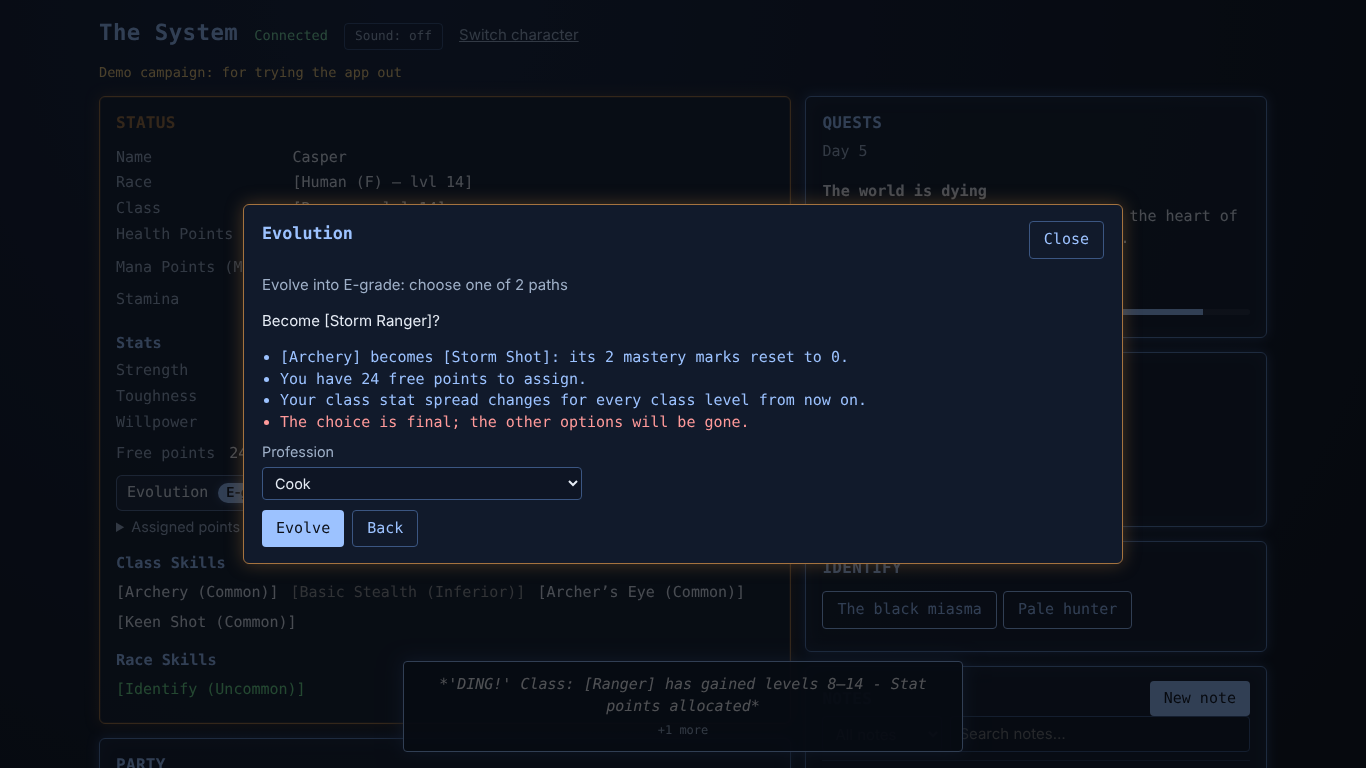
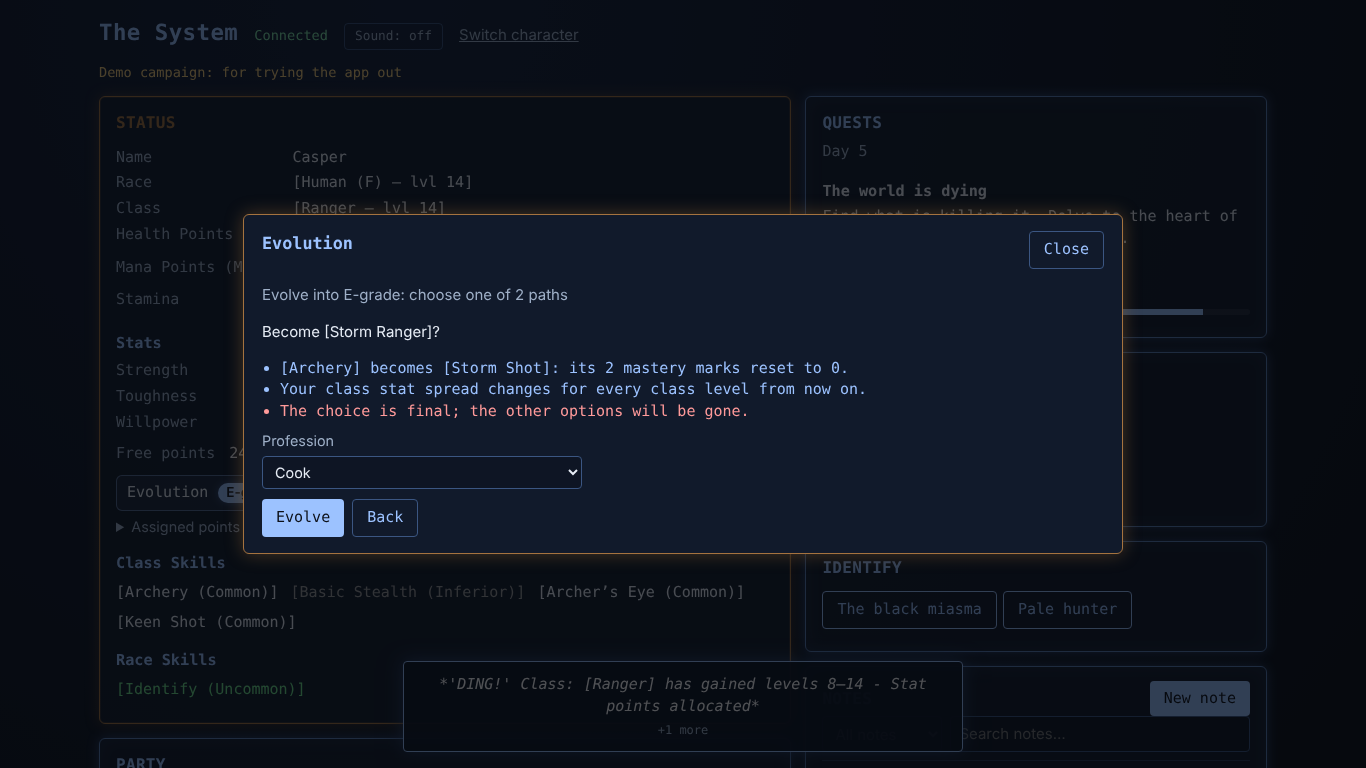
fix(M3.13): address review (focus returns to [Evolve] and the picked path, a replaced or settled release closes with a notice, no free-points warning)
Claude-Session: https://claude.ai/code/session_01MhNGrAnDKjPeUgHjoEJsKP

diff --git a/e2e/M3.13.spec.ts b/e2e/M3.13.spec.ts
@@ -140,7 +140,6 @@ test('a player chooses a released evolution with a profession', async ({ browser
   await expect(warnings).toContainText(
     new RegExp(`\\[${skill}\\] becomes \\[Storm Shot\\]: its \\d+ mastery marks? resets? to 0\\.`),
   );
-  await expect(warnings).toContainText('free points to assign');
   await expect(warnings).toContainText('Your class stat spread changes');
   await expect(warnings).toContainText('The choice is final');
   await dialog.getByLabel('Profession').selectOption('Cook');
@@ -148,6 +147,7 @@ test('a player chooses a released evolution with a profession', async ({ browser
   await dialog.getByRole('button', { name: 'Evolve' }).click();
   await expect(dialog).toHaveCount(0);
   await expect(pending).toHaveCount(0);
+  await expect(laptop.getByTestId('evolution-notice')).toHaveCount(0);
   await expect(laptop.getByTestId('class')).toHaveText(/^\[Storm Ranger – lvl \d+\]$/);
   await expect(laptop.getByTestId('race')).toContainText('(E)');
   await expect(laptop.getByTestId('profession')).toHaveText(/^\[Cook – lvl \d+\]$/);
@@ -199,10 +199,42 @@ test('a player chooses a released evolution with a profession', async ({ browser
   await expect(phoneDialog.getByTestId('evolution-option')).toHaveCount(3);
   await expect(phoneDialog.getByLabel('Profession')).toHaveCount(0);
   await phone.screenshot({ path: path.join(shots, 'player-evolution-390x844.png') });
-  // The GM withdraws it by choosing for the player: the dialog closes.
+  // The GM re-releases while the dialog is open: it closes with a notice.
+  await gmCommand(gm, {
+    type: 'evolution.release',
+    characterId: 'demo-sultan',
+    options: [
+      {
+        className: 'Skirmisher',
+        transforms: [{ skill: sultanSkill, name: 'Snap Shot', rarity: 'common' }],
+      },
+      {
+        className: 'Warden',
+        transforms: [{ skill: sultanSkill, name: 'Guard Shot', rarity: 'common' }],
+      },
+    ],
+  });
+  await expect(phoneDialog).toHaveCount(0);
+  await expect(phone.getByTestId('evolution-notice')).toHaveText(
+    'The GM changed your evolution; open it again to see the new paths.',
+  );
+  // Keyboard: Back returns focus to the picked path; Close returns it to [Evolve].
+  const evolve = phone.getByTestId('evolution-pending').getByRole('button', { name: '[Evolve]' });
+  await evolve.click();
+  await phoneDialog.getByRole('button', { name: 'Choose Warden' }).click();
+  await phone.screenshot({ path: path.join(shots, 'player-evolution-review-390x844.png') });
+  await phoneDialog.getByRole('button', { name: 'Back' }).click();
+  await expect(phoneDialog.getByRole('button', { name: 'Choose Warden' })).toBeFocused();
+  await phoneDialog.getByRole('button', { name: 'Close evolution' }).click();
+  await expect(evolve).toBeFocused();
+  await evolve.click();
+  // The GM chooses for the player while the dialog is open: it closes with a notice.
   await gmCommand(gm, { type: 'evolution.choose', characterId: 'demo-sultan', optionId: 'o2' });
   await expect(phoneDialog).toHaveCount(0);
-  await expect(phone.getByTestId('class')).toHaveText(/^\[Skirmisher – lvl \d+\]$/);
+  await expect(phone.getByTestId('evolution-notice')).toHaveText(
+    'Your evolution was settled or withdrawn by the GM.',
+  );
+  await expect(phone.getByTestId('class')).toHaveText(/^\[Warden – lvl \d+\]$/);
 
   expect(errors).toEqual([]);
   expect(jakeErrors).toEqual([]);

diff --git a/apps/web/src/player/PlayerScreen.tsx b/apps/web/src/player/PlayerScreen.tsx
@@ -223,9 +223,28 @@ function Status({ view, client }: { view: PlayerView; client: LiveClient | null 
   // never swaps it: if the GM re-offers, chooses or undoes it, it closes with
   // a notice (unless this screen's own choice closed it).
   const pending = pendingSelections(me.selections);
-  const [evoOpen, setEvoOpen] = useState(false);
-  // A withdrawn or settled release closes the dialog; a new one waits for [Evolve].
-  if (evoOpen && me.evolution === null) setEvoOpen(false);
+  // The evolution dialog (M3.13) is open on one release; a settled, withdrawn
+  // or replaced release closes it with a notice (unless this screen chose).
+  const [evoOpen, setEvoOpen] = useState<string | null>(null);
+  const [evoConfirming, setEvoConfirming] = useState(false);
+  const [evoNotice, setEvoNotice] = useState<string | null>(null);
+  const [evoFocus, setEvoFocus] = useState(0);
+  const evolveButton = useRef<HTMLButtonElement | null>(null);
+  if (evoOpen !== null && me.evolution?.releaseId !== evoOpen) {
+    setEvoOpen(null);
+    if (!evoConfirming)
+      setEvoNotice(
+        me.evolution === null
+          ? 'Your evolution was settled or withdrawn by the GM.'
+          : 'The GM changed your evolution; open it again to see the new paths.',
+      );
+    setEvoConfirming(false);
+    setEvoFocus((n) => n + 1);
+  }
+  useEffect(() => {
+    if (evoFocus === 0) return;
+    (evolveButton.current ?? statusHeading.current)?.focus();
+  }, [evoFocus]);
   const [selOpen, setSelOpen] = useState<{ level: number; offerId: string } | null>(null);
   const [selConfirming, setSelConfirming] = useState<number | null>(null);
   const [selNotice, setSelNotice] = useState<string | null>(null);
@@ -406,28 +425,45 @@ function Status({ view, client }: { view: PlayerView; client: LiveClient | null 
           <span className="badge" data-testid="evolution-badge">
             {me.evolution.toGrade}-grade available
           </span>
-          {client && !evoOpen && (
+          {client && (
             <button
               type="button"
               className="assign-btn"
+              ref={evolveButton}
               aria-haspopup="dialog"
-              onClick={() => setEvoOpen(true)}
+              onClick={() => {
+                setEvoNotice(null);
+                setEvoOpen(me.evolution?.releaseId ?? null);
+              }}
             >
               [Evolve]
             </button>
           )}
         </p>
       )}
-      {client && me.evolution !== null && evoOpen && (
+      {evoNotice && (
+        <p className="err" role="alert" data-testid="evolution-notice">
+          {evoNotice}
+        </p>
+      )}
+      {client && me.evolution !== null && evoOpen === me.evolution.releaseId && (
         <EvolutionChoice
           key={me.evolution.releaseId}
           evolution={me.evolution}
           view={view}
           client={client}
+          onConfirming={() => setEvoConfirming(true)}
           onSettled={(ok) => {
-            if (ok) setEvoOpen(false);
+            setEvoConfirming(false);
+            if (ok) {
+              setEvoOpen(null);
+              setEvoFocus((n) => n + 1);
+            }
           }}
-          onClose={() => setEvoOpen(false)}
+          onClose={() => {
+            setEvoOpen(null);
+            setEvoFocus((n) => n + 1);
+          }}
         />
       )}
       {selNotice && (

diff --git a/apps/web/src/player/EvolutionChoice.tsx b/apps/web/src/player/EvolutionChoice.tsx
@@ -15,13 +15,15 @@ export function EvolutionChoice({
   evolution,
   view,
   client,
+  onConfirming,
   onSettled,
   onClose,
 }: {
   evolution: PendingEvolution;
   view: PlayerView;
   client: LiveClient;
-  onSettled: (ok: boolean, className: string, error: string | undefined) => void;
+  onConfirming: () => void;
+  onSettled: (ok: boolean) => void;
   onClose: () => void;
 }) {
   const rules = view.rules;
@@ -42,9 +44,18 @@ export function EvolutionChoice({
   useEffect(() => {
     if (option) confirmButton.current?.focus();
   }, [option]);
-  const confirm = async (optionId: string, className: string) => {
+  // Back returns keyboard focus to the path that was picked.
+  const [backTo, setBackTo] = useState<string | null>(null);
+  useEffect(() => {
+    if (backTo === null) return;
+    dialog.current
+      ?.querySelector<HTMLButtonElement>(`button[data-option="${CSS.escape(backTo)}"]`)
+      ?.focus();
+  }, [backTo]);
+  const confirm = async (optionId: string) => {
     setBusy(true);
     setError(null);
+    onConfirming();
     const result = await client.command({
       type: 'evolution.choose',
       characterId: me.id,
@@ -53,7 +64,7 @@ export function EvolutionChoice({
       releaseId: evolution.releaseId,
     });
     setBusy(false);
-    onSettled(result.ok, className, result.ok ? undefined : result.error);
+    onSettled(result.ok);
     if (result.ok) return;
     if (isConnectionError(result.error))
       setError('Connection lost. Check your class once you are back: the choice may be saved.');
@@ -121,7 +132,7 @@ export function EvolutionChoice({
               ref={confirmButton}
               disabled={busy}
               aria-describedby="evolution-review"
-              onClick={() => void confirm(option.id, option.className)}
+              onClick={() => void confirm(option.id)}
             >
               Evolve
             </button>
@@ -129,7 +140,10 @@ export function EvolutionChoice({
               type="button"
               className="secondary"
               disabled={busy}
-              onClick={() => setPicked(null)}
+              onClick={() => {
+                setBackTo(option.id);
+                setPicked(null);
+              }}
             >
               Back
             </button>
@@ -160,6 +174,7 @@ export function EvolutionChoice({
                 {weights && <p className="muted">Class stats per level: {weights}</p>}
                 <button
                   type="button"
+                  data-option={o.id}
                   aria-label={`Choose ${o.className}`}
                   onClick={() => {
                     setError(null);

diff --git a/apps/web/src/player/evolution.ts b/apps/web/src/player/evolution.ts
@@ -1,6 +1,6 @@
 import type { EvolutionOption, OwnSheet, PlayerRules } from '@the-system/engine';
 import { pendingSelections } from './selection';
-import { rarityName, unassignedPoints } from './sheet';
+import { rarityName } from './sheet';
 
 /**
  * Evolution screen helpers (ROADMAP M3.13, DESIGN §2–§3, §6, D64). Pure.
@@ -33,10 +33,11 @@ export function weightsText(
 
 /**
  * What the player should know before confirming an option: marks the
- * transforms reset (D64), choices still waiting, and that it is final.
+ * transforms reset (D64), selections still waiting, a reshaped spread, and
+ * that it is final. Free points are untouched by evolving, so not listed.
  */
 export function evolutionWarnings(
-  me: Pick<OwnSheet, 'skills' | 'selections' | 'freePointBatches'>,
+  me: Pick<OwnSheet, 'skills' | 'selections'>,
   option: EvolutionOption,
 ): string[] {
   const out: string[] = [];
@@ -52,8 +53,6 @@ export function evolutionWarnings(
     out.push(
       `You have ${waiting} skill ${waiting === 1 ? 'selection' : 'selections'} still waiting.`,
     );
-  const free = unassignedPoints(me.freePointBatches);
-  if (free > 0) out.push(`You have ${free} free ${free === 1 ? 'point' : 'points'} to assign.`);
   if (option.classWeights !== null)
     out.push('Your class stat spread changes for every class level from now on.');
   out.push('The choice is final; the other options will be gone.');

diff --git a/apps/web/test/evolution.test.ts b/apps/web/test/evolution.test.ts
@@ -30,10 +30,9 @@ const option = (over: Partial<EvolutionOption> = {}): EvolutionOption => ({
   ...over,
 });
 
-const me = (over: Partial<Pick<OwnSheet, 'skills' | 'selections' | 'freePointBatches'>> = {}) => ({
+const me = (over: Partial<Pick<OwnSheet, 'skills' | 'selections'>> = {}) => ({
   skills: [skill('Basic Archery', 3)],
   selections: [],
-  freePointBatches: [],
   ...over,
 });
 
@@ -63,16 +62,12 @@ describe('evolution screen helpers (M3.13)', () => {
           { level: 10, options: [], chosen: null, offerId: 'x' },
           { level: 5, options: [], chosen: 'A', offerId: 'y' },
         ],
-        freePointBatches: [
-          { raceLevel: 3, points: 2, allocation: null },
-        ] as unknown as OwnSheet['freePointBatches'],
       }),
       option({ classWeights: { agility: 2 } }),
     );
     expect(w).toEqual([
       '[Basic Archery] becomes [Expert Archery]: its 3 mastery marks reset to 0.',
       'You have 1 skill selection still waiting.',
-      'You have 2 free points to assign.',
       'Your class stat spread changes for every class level from now on.',
       'The choice is final; the other options will be gone.',
     ]);

diff --git a/docs/DECISIONS.md b/docs/DECISIONS.md
@@ -89,4 +89,4 @@ Newest at the bottom. Format: ID · date · decision · why.
 - D85 · 2026-10-22 · Notes screen (M3.10): `PlayerView.notes` carries the viewer's own journal (shared or not) and every party note, copied field by field in creation order (`canReadNote`; GM notes and other players' journals, shared or not, never). Player note ids are generated by the server (the hub drops a player's `noteId`), and a player editing or deleting a note they cannot read gets the same "unknown note" refusal as for a missing one, so neither can probe for hidden notes. The GM's View-as panes join with `viewAs: true` (protocol, additive): read-only on the server, and unshared journal entries are left out of their view like the GM's own (D62). The Notes window sits under Identify (after it on phones): New note (journal or party; title, Markdown text, comma-separated tags, "Let the GM read this entry"), a Show filter (All / My journal / Party), word search over title, text and tags, a tag filter from a note's tag chips, newest change first (ties: newest created). An open note renders a safe Markdown subset (headings, lists, quotes, bold, italic, code; never HTML or links) and, for the player's own notes, Edit, Share with the GM / Make private, and Delete with a second confirming click; party notes by others are read-only. A form whose note is deleted elsewhere closes with a notice; one edited elsewhere warns that saving replaces it (last write wins). Players still join by picking a character (M3.1, no player login), so anyone on the LAN who picks Jake reads Jake's journal, as with his inventory; the privacy the app enforces is toward the GM's screens and other characters' views. The demo adds Jake's private and shared journal entries, Miranda's and the GM's party notes and a GM-only note. · DESIGN §7 Notes and D62; a hand-written Markdown subset keeps note text from ever becoming markup on another player's screen.
 - D86 · 2026-10-22 · Practice and montage (M3.11): montages are GM offers on a clock (campaign state v12: `montages`, `montageOrder`; events `montage.offered`/`montage.focused`/`montage.closed`, new golden log, additive golden state diffs). An offer needs the clock to qualify (`montageAvailable`, DESIGN §7), names the characters it is for, and carries a player-facing `label` (default "Montage", never the GM-only clock's name). Each offered character gives one focus while it is open (a player for their own character, or the GM for them); the focus is also a practice entry with source "montage". To a player, a montage not offered to them is an "unknown montage". `PlayerView` adds the viewer's own practice entries (without tags, which may be hidden quests' action tags) and the open montages offered to them (label and own focus only). The Practice window sits under Quests (right after Quests on phones, since an offer waits on the player): each open montage as a highlighted box with a one-line focus form (the line; skills used and stat optional), a collapsed "Log practice" form (action plus a skill and/or a stat, as the engine requires), and the eight newest own entries. The demo adds a half-filled GM clock "Cross the marsh", an open montage "Crossing the black marsh" for Jake and Miranda, and one practice entry by Jake. The montage trigger in the GM console is M7.3; DESIGN §6's "a montage focus counts as that mark" is left to the GM's mark awards (M5). · DESIGN §7 Montage and Practice log; per-character offers keep a montage from reaching players who are not in the scene.
 - D87 · 2026-10-22 · Party view (M3.12): a "Party" window under the Status window (on phones after Quests and Practice, before Inventory) lists every other character in creation order: name in their grade metal, `[Race (Grade) – lvl N]`, `[Class – lvl N]`, `[Profession – lvl N]` when they have one, and one bar per rules-config pool labelled by its bracketed abbreviation (HP, MP; full name on hover and in the meter's accessible name) with "Full", "Empty" or the whole percent (D39). Bars at 25% or less draw red (a display threshold, not a rule). Levels and labels glow when they change, like the own sheet. The window reads only `PlayerView.party`, so no raw pools or stats reach it. · ROADMAP M3.12 and D5; next to the own sheet so the party's state is a glance away at the table.
-- D88 · 2026-10-22 · Table extras (M3.13): the contest result pop-up and the hunger tracker need engine data that does not exist yet (rolls are not events, D66; hunger has only config, M7.4), so they move to M7.3 and M7.4, where that data is born, and M3.13 is the evolution screen alone. A released evolution shows an "Evolution · <grade>-grade available · [Evolve]" row in the Status window; [Evolve] opens a modal with the paths side by side (class name, description, each transform as `[Old (Rarity)] → [New (Rarity)]`, reshaped class stats biggest first). Choosing one shows warnings (marks the transforms reset, skill selections waiting, free points unassigned, a reshaped spread, finality; Q36), a Profession picker when the release offers professions ("None for now" default; the GM can grant one later, D64), and Evolve/Back. Close leaves it for later; the dialog closes when the release is settled or withdrawn elsewhere. · DESIGN §2 (GM releases, player chooses) and ROADMAP work order: a player screen should not invent engine events another milestone owns.
+- D88 · 2026-10-22 · Table extras (M3.13): the contest result pop-up and the hunger tracker need engine data that does not exist yet (rolls are not events, D66; hunger has only config, M7.4), so they move to M7.3 and M7.4, where that data is born, and M3.13 is the evolution screen alone. A released evolution shows an "Evolution · <grade>-grade available · [Evolve]" row in the Status window; [Evolve] opens a modal with the paths side by side (class name, description, each transform as `[Old (Rarity)] → [New (Rarity)]`, reshaped class stats biggest first). Choosing one shows warnings (marks the transforms reset, skill selections waiting, a reshaped spread, finality; Q36), a Profession picker when the release offers professions ("None for now" default; the GM can grant one later, D64), and Evolve/Back. Close leaves it for later (focus returns to [Evolve]); a release settled, withdrawn or replaced elsewhere closes the dialog with a notice, unless this screen made the choice. · DESIGN §2 (GM releases, player chooses) and ROADMAP work order: a player screen should not invent engine events another milestone owns.

diff --git a/docs/QUESTIONS.md b/docs/QUESTIONS.md
@@ -175,8 +175,8 @@ answer under any question and the next run will follow it.
     Answer:
 
 36. **Warnings before an evolution.** The evolution screen warns about mastery
-    marks a transform resets, skill selections still waiting, unassigned free
-    points, a reshaped class spread, and that the choice is final. It does
+    marks a transform resets, skill selections still waiting, a reshaped
+    class spread, and that the choice is final. It does
     not stop the player evolving with a selection still open. Default: warn
     only (D88). Alternative: refuse to evolve until every waiting selection
     is chosen (see also Q21).
